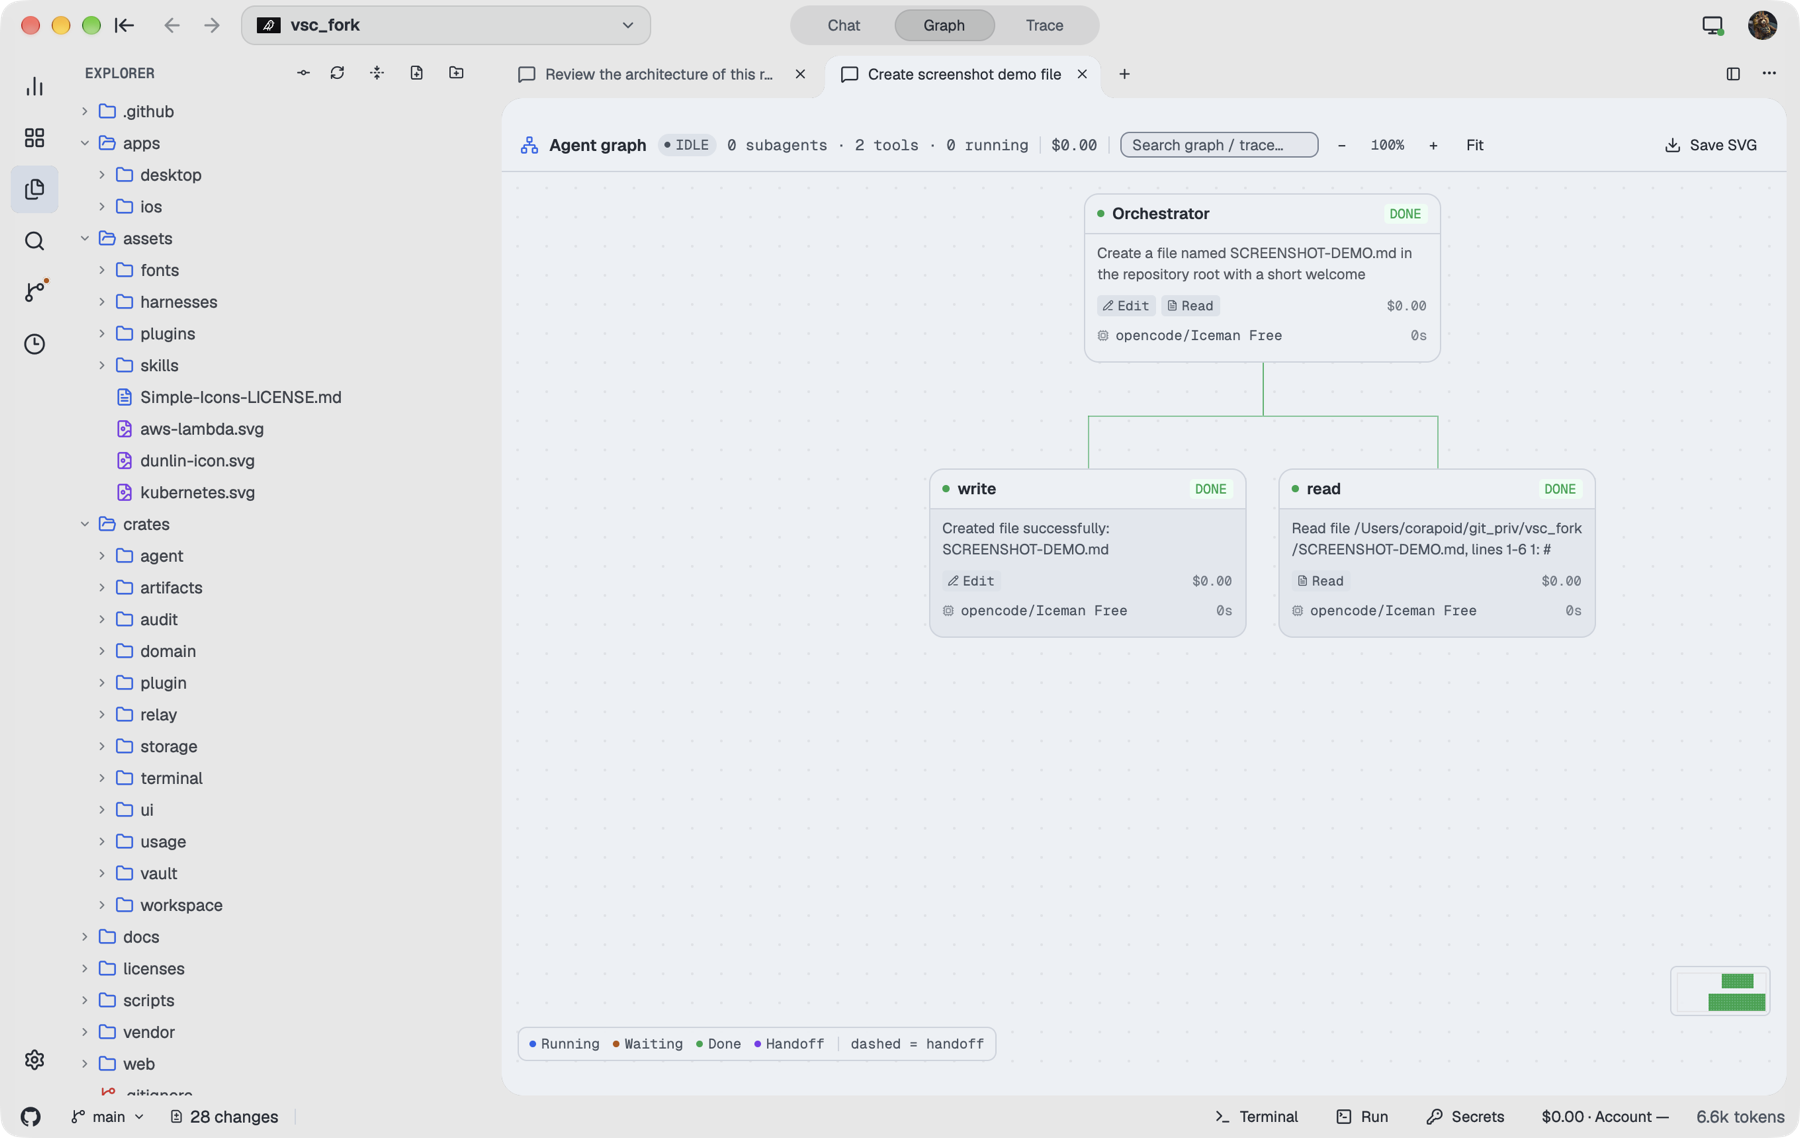
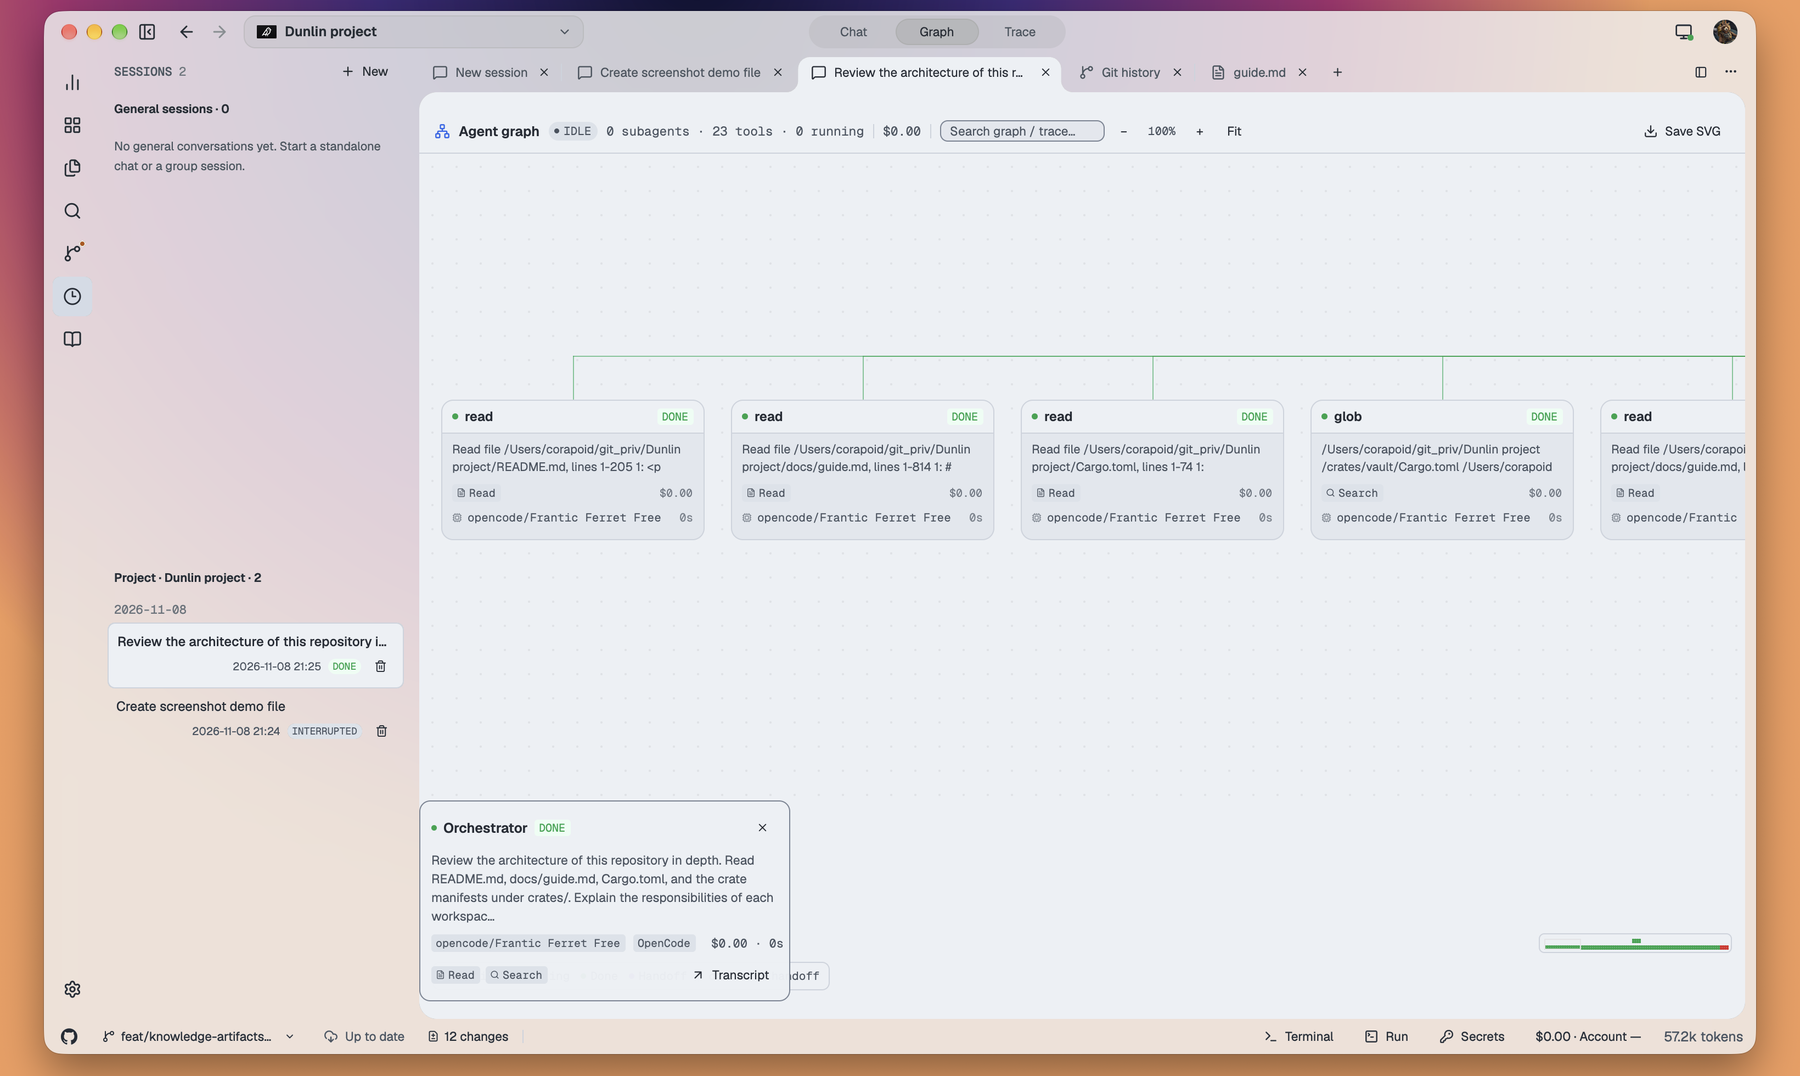
docs(screenshots): refresh captures over a translucent desktop background
Replace the window-only captures with region captures over a desktop gradient
so the native translucent chrome and glass overlays are visible. Refresh dark
and light onboarding, settings, chat, graph, trace, Markdown editor, Git
workbench, secrets and permissions at 1800x1076, using a renamed
"Dunlin project" fixture and no stale version text in the UI.

diff --git a/docs/screenshots.md b/docs/screenshots.md
@@ -3,9 +3,10 @@
 The README shows the dark set. This page keeps both appearances side by side and
 adds close-ups of features that are unusual in a native, agent-first workspace.
 
-All captures come from the same source build of **0.1.0-beta.10** at 1800×1138,
-with a fresh application reset and a local `vsc_fork` project. The agent session
-uses the OpenCode ACP harness with the free **Iceman Free** model.
+All captures come from the current source build over a desktop background so the
+translucent chrome is visible. They use a fresh application reset and a local
+`Dunlin project` fixture. The agent session uses the OpenCode ACP harness with the
+free **Iceman Free** model. Images are 1800×1076.
 
 ## Main views
 
